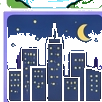
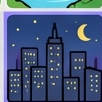
fix(assets): restore opaque background PNGs (do not strip bg-*)

diff --git a/scripts/fix-item-pngs.py b/scripts/fix-item-pngs.py
@@ -87,7 +87,8 @@ def strip_bg(im: Image.Image, tol: int = 32):
 
 
 def main():
-    files = sorted(ITEMS_DIR.glob("*.png"))
+    SKIP_PREFIXES = ("bg-",)
+    files = [p for p in sorted(ITEMS_DIR.glob("*.png")) if not p.name.startswith(SKIP_PREFIXES)]
     if not files:
         raise SystemExit(f"No PNGs in {ITEMS_DIR}")
 
